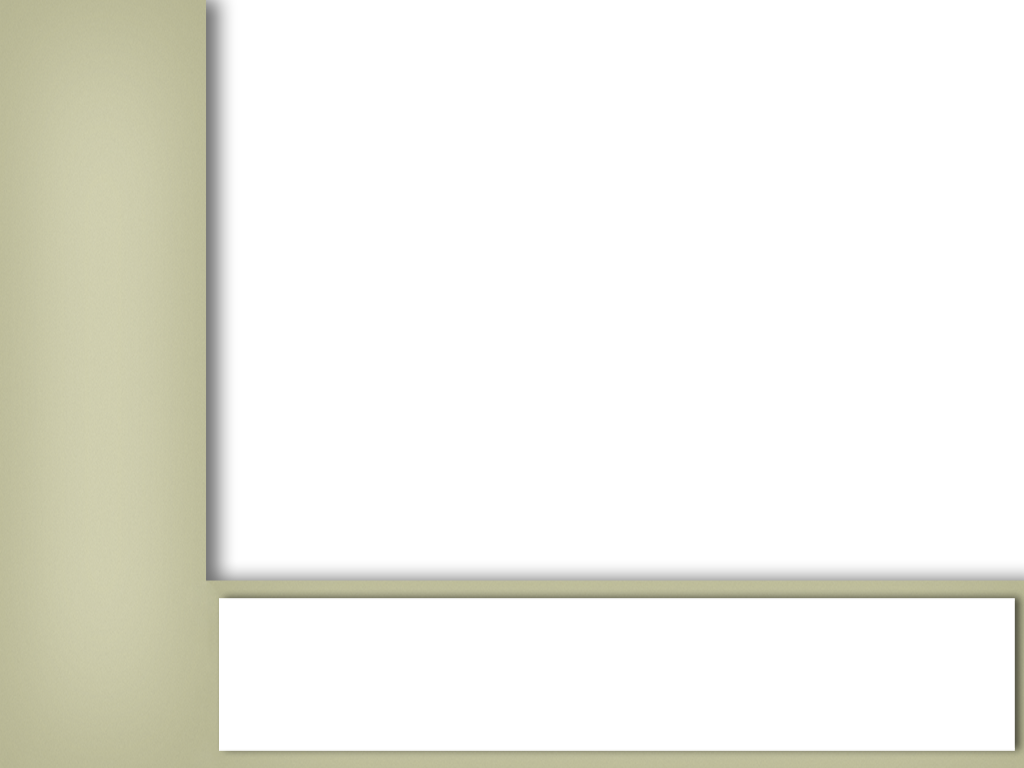
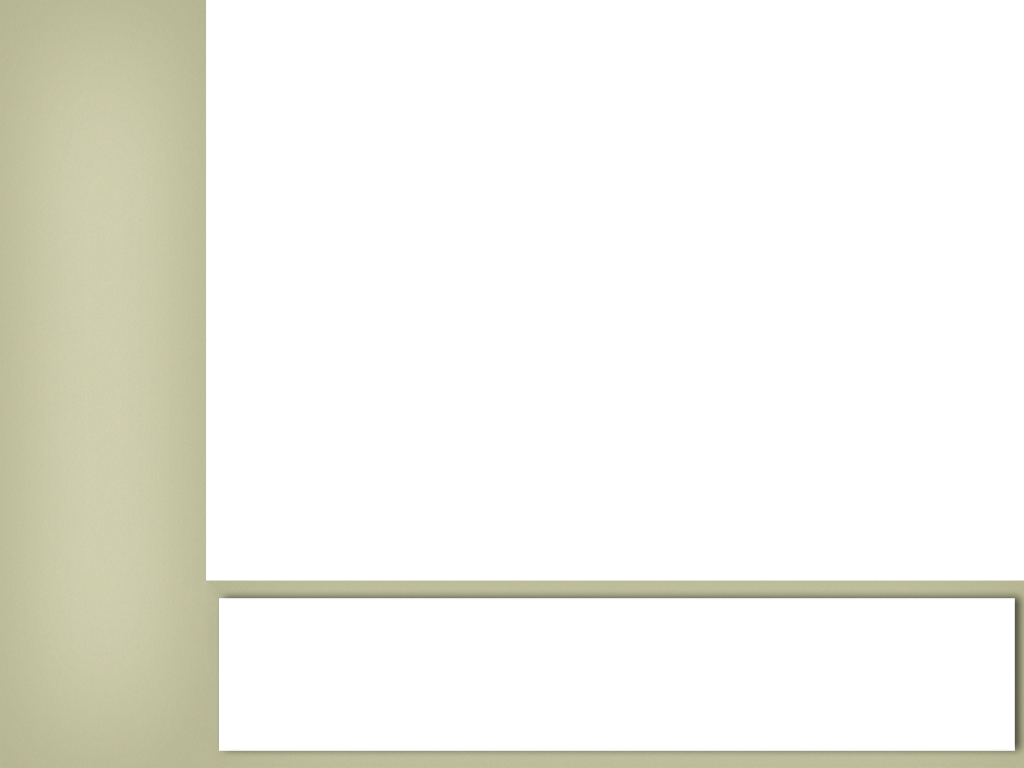
Buttons (new)
"Profiel" button > "Mijn Kaart"
Schaduw verwijdert

Changed region(s): [[0.1875, 0.0, 1.0, 0.7812]]

diff --git a/src/we/getconnected/gui/UserInterfaceDesign.java b/src/we/getconnected/gui/UserInterfaceDesign.java
@@ -106,9 +106,9 @@ public class UserInterfaceDesign extends javax.swing.JPanel {
 
         jMenuButton.setIcon(new javax.swing.ImageIcon(getClass().getResource("/media/Menu1024x768.png"))); // NOI18N
 
-        jProfielButton.setIcon(new javax.swing.ImageIcon(getClass().getResource("/media/Profiel1024x768.png"))); // NOI18N
+        jProfielButton.setIcon(new javax.swing.ImageIcon(getClass().getResource("/media/MijnKaart1024x768.png"))); // NOI18N
 
-        jOptiesButton.setIcon(new javax.swing.ImageIcon(getClass().getResource("/media/opties1024x768.png"))); // NOI18N
+        jOptiesButton.setIcon(new javax.swing.ImageIcon(getClass().getResource("/media/Opties1024x768.png"))); // NOI18N
 
         jHighscoreButton.setIcon(new javax.swing.ImageIcon(getClass().getResource("/media/Highscore1024x768.png"))); // NOI18N
 
